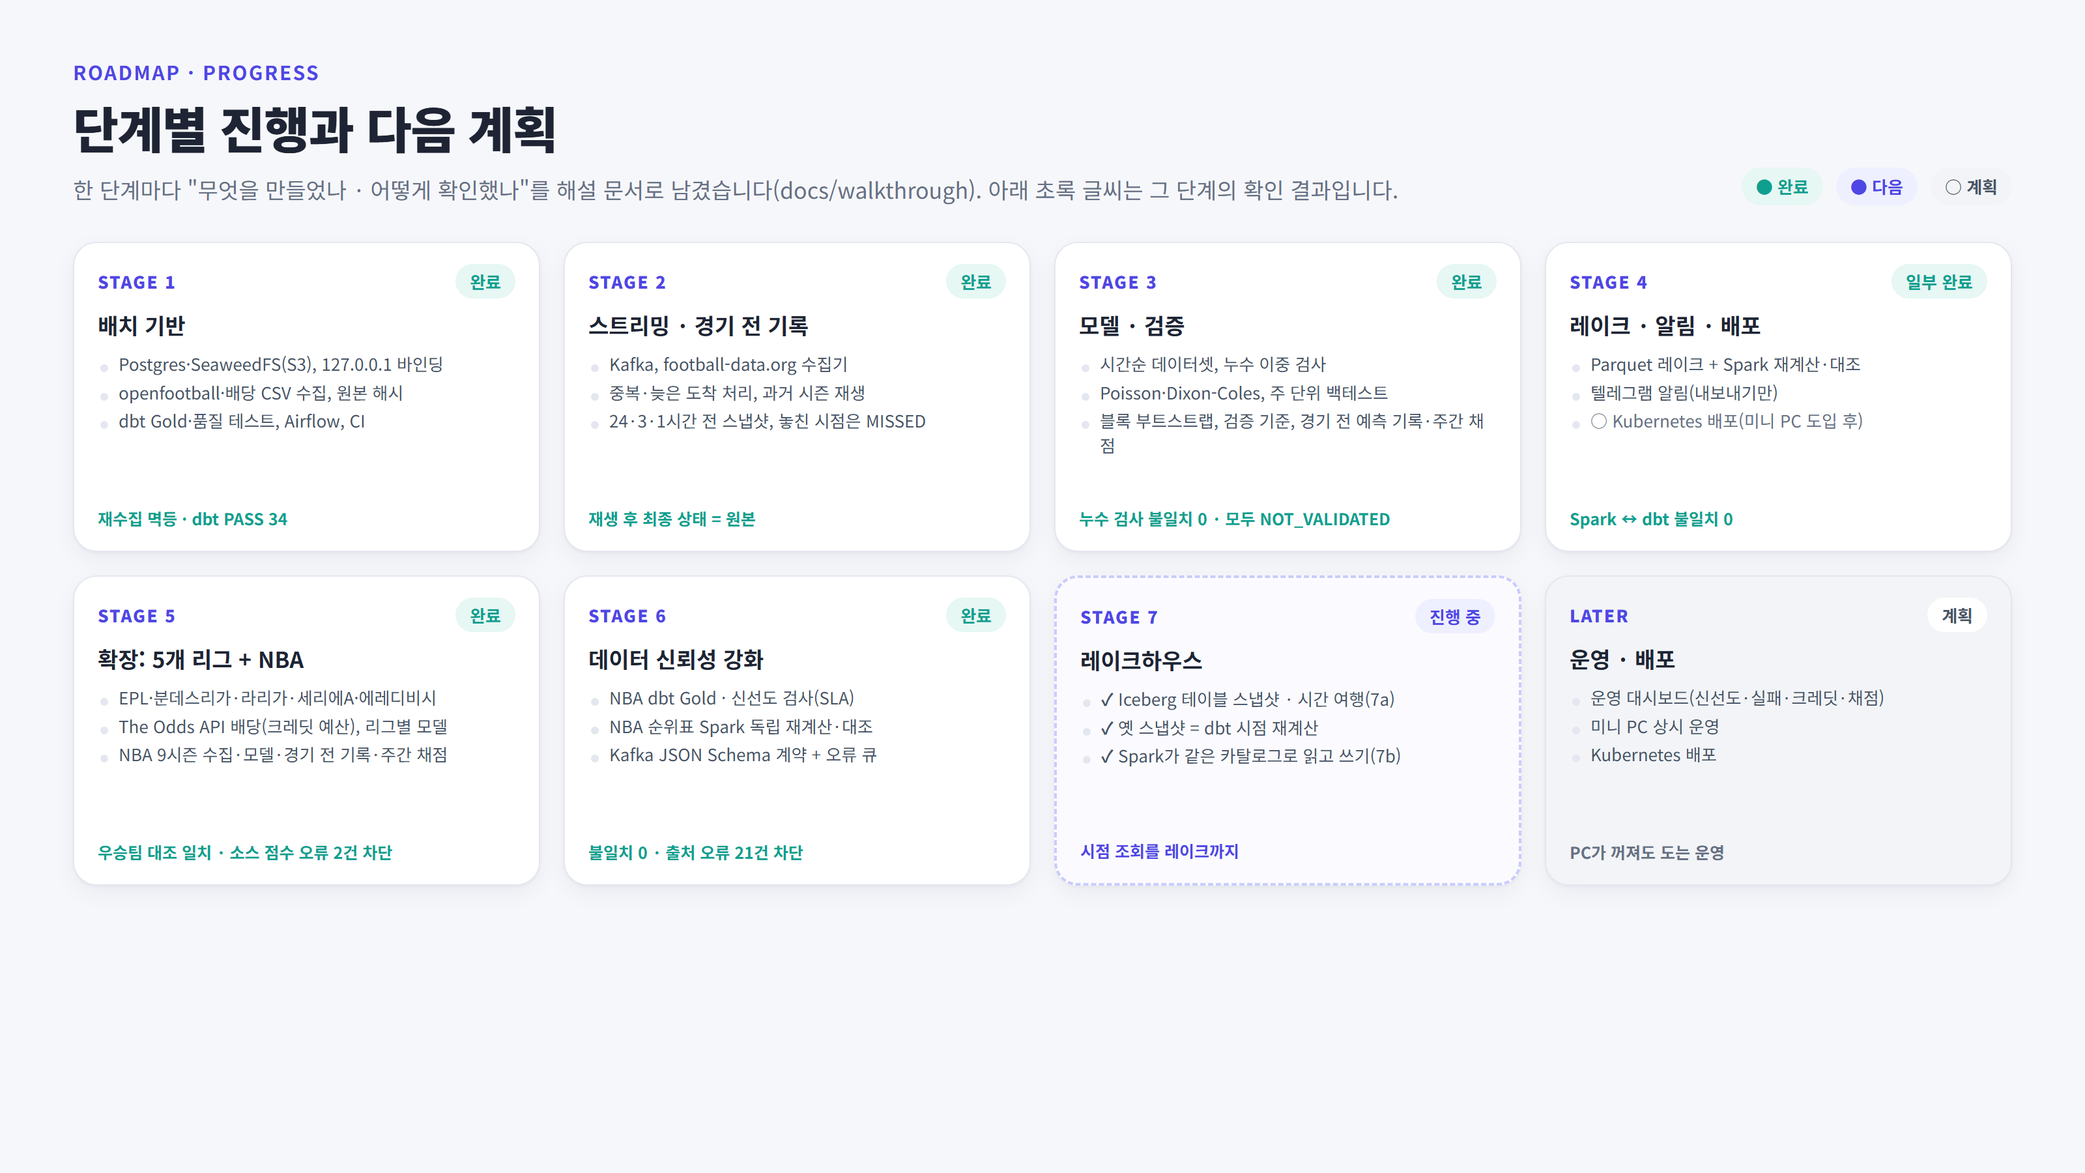
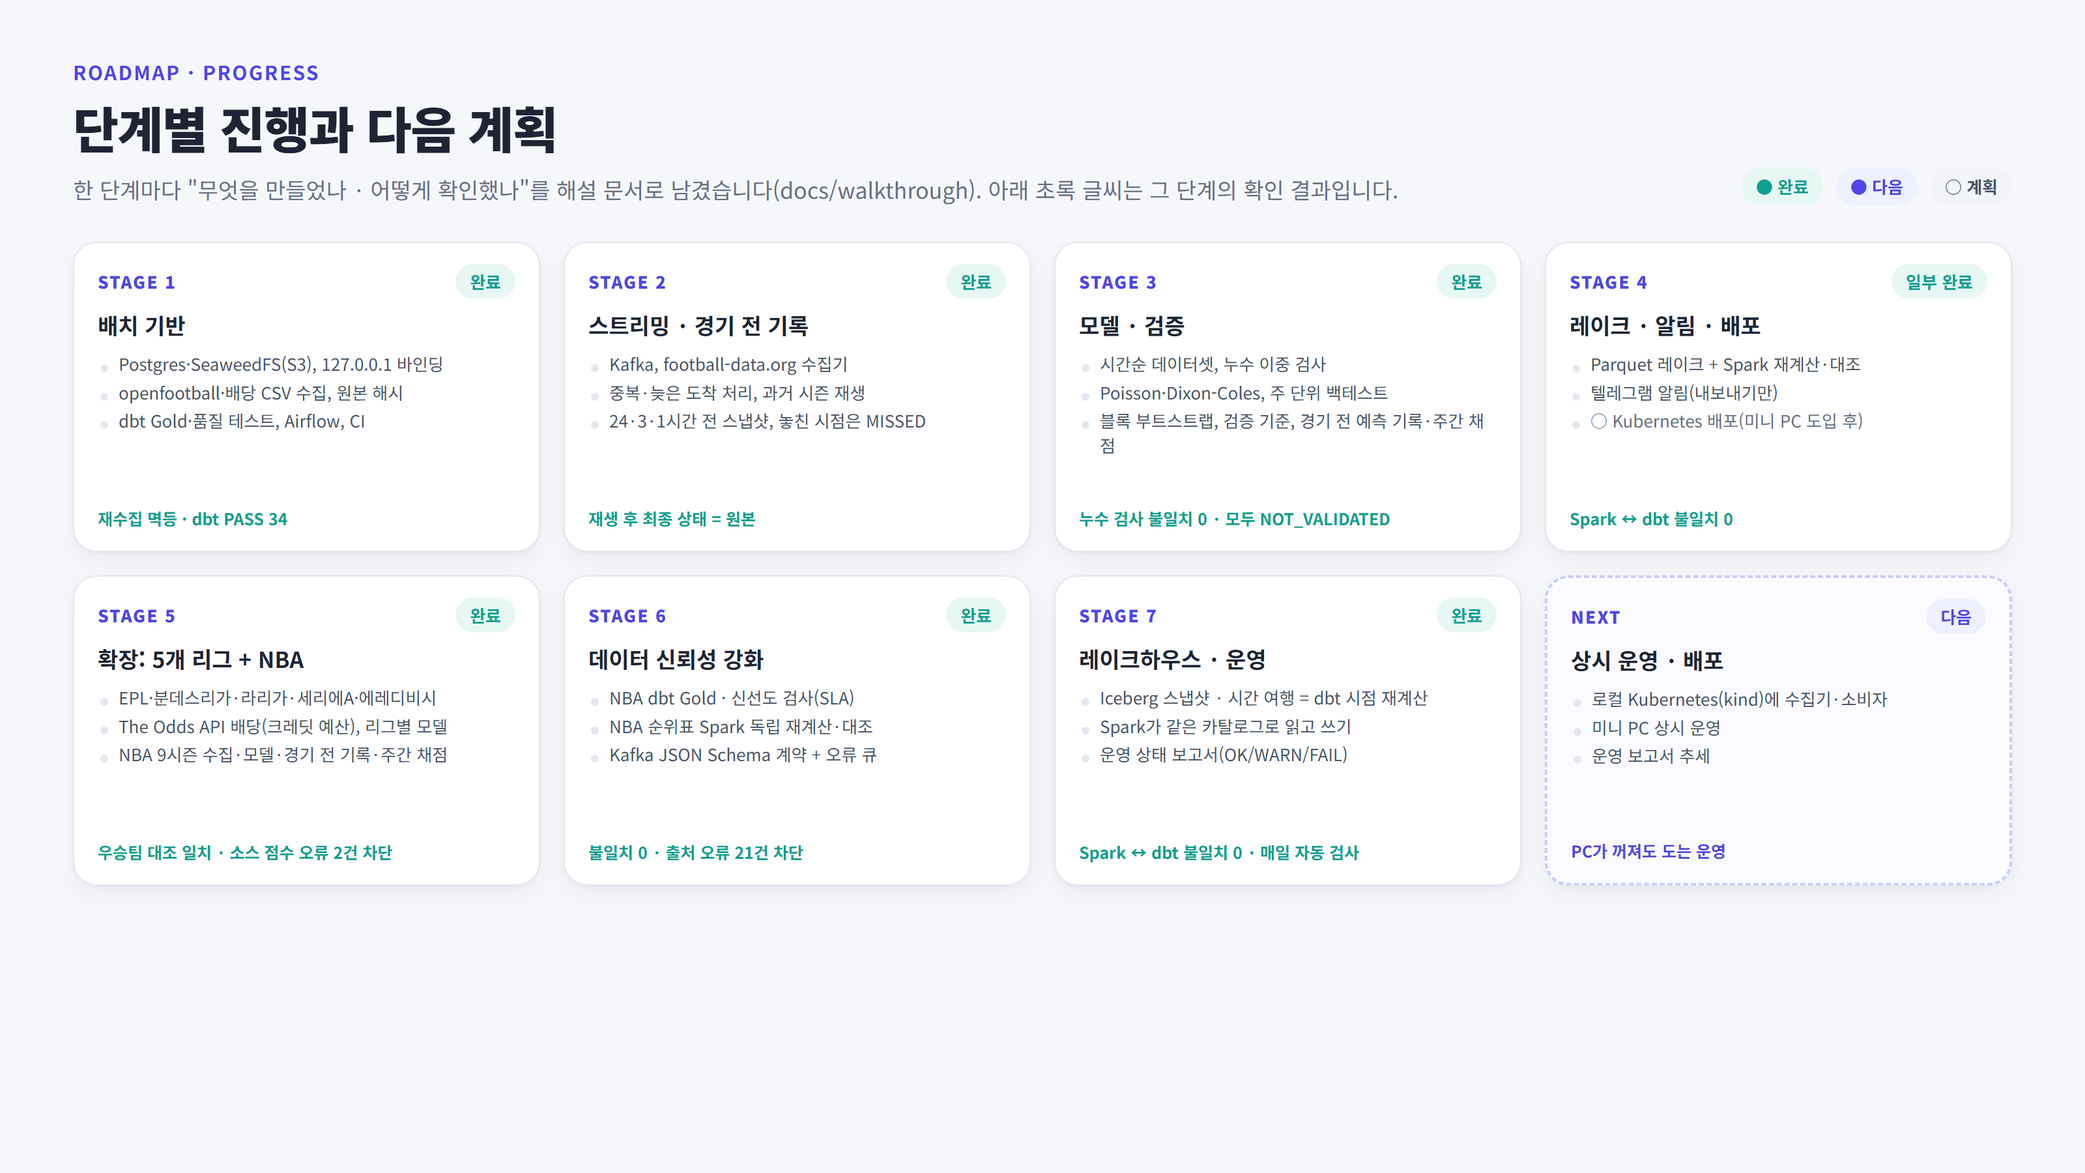
7c 해설, 문서·그림 갱신

diff --git a/docs/diagrams/01_overview.html b/docs/diagrams/01_overview.html
@@ -73,7 +73,7 @@
         <div class="tech-row"><div class="name">Spark · Iceberg<span>레이크 · 대조</span></div><div class="why">Gold를 Iceberg 테이블 스냅샷으로 쌓아 <b>그날의 Gold를 시간 여행</b>으로 읽고, Spark로 <b>독립 재계산해 dbt와 행 단위 대조</b>(불일치 0)</div></div>
         <div class="tech-row"><div class="name">Airflow<span>오케스트레이션</span></div><div class="why">매일 수집·변환, <b>30분마다 경기 전 스냅샷</b>, 주간 채점, 실패 알림. API 크레딧 예산 안에서</div></div>
         <div class="tech-row"><div class="name">numpy<span>모델 · 평가</span></div><div class="why">Poisson·Dixon-Coles·점수 차 등급·Elo, <b>시간순 백테스트 + 블록 부트스트랩</b> 검증 기준</div></div>
-        <div class="tech-row"><div class="name">Docker · CI<span>재현 · 검증</span></div><div class="why">Compose로 전체 스택 재현, GitHub Actions에서 <b>테스트 217개 + Spark + dbt</b></div></div>
+        <div class="tech-row"><div class="name">Docker · CI<span>재현 · 검증</span></div><div class="why">Compose로 전체 스택 재현, GitHub Actions에서 <b>테스트 220개 + Spark + dbt</b></div></div>
       </div>
     </div>
 
@@ -85,7 +85,7 @@
           <div class="num"><b>23,693</b><span>경기(축구 12,264 · NBA 11,429)</span></div>
           <div class="num"><b>17.8만</b><span>배당 버전(해외 북메이커)</span></div>
           <div class="num"><b>60만</b><span>시간순 백테스트 예측</span></div>
-          <div class="num"><b>217</b><span>자동 테스트(CI 포함)</span></div>
+          <div class="num"><b>220</b><span>자동 테스트(CI 포함)</span></div>
         </div>
         <div class="item"><b>정직한 결론</b><span>모델은 단순 비율보다 확실히 낫지만 시장 배당은 못 이김 → 모두 NOT_VALIDATED, 확률 비공개(WITHHELD)</span></div>
         <div class="item"><b>매주 자동으로</b><span>경기 전에 얼린 예측을 같은 시점의 시장 확률과 나란히 채점, 텔레그램으로 요약</span></div>

diff --git a/docs/diagrams/04_roadmap.html b/docs/diagrams/04_roadmap.html
@@ -66,16 +66,16 @@
       <ul><li>NBA dbt Gold · 신선도 검사(SLA)</li><li>NBA 순위표 Spark 독립 재계산·대조</li><li>Kafka JSON Schema 계약 + 오류 큐</li></ul>
       <div class="proof">불일치 0 · 출처 오류 21건 차단</div>
     </div>
-    <div class="card stage next">
-      <div class="top"><span class="no">STAGE 7</span><span class="chip next">진행 중</span></div>
-      <h3>레이크하우스</h3>
-      <ul><li><b>✓</b> Iceberg 테이블 스냅샷 · 시간 여행(7a)</li><li><b>✓</b> 옛 스냅샷 = dbt 시점 재계산</li><li><b>✓</b> Spark가 같은 카탈로그로 읽고 쓰기(7b)</li></ul>
-      <div class="proof">시점 조회를 레이크까지</div>
+    <div class="card stage">
+      <div class="top"><span class="no">STAGE 7</span><span class="chip done">완료</span></div>
+      <h3>레이크하우스 · 운영</h3>
+      <ul><li>Iceberg 스냅샷 · 시간 여행 = dbt 시점 재계산</li><li>Spark가 같은 카탈로그로 읽고 쓰기</li><li>운영 상태 보고서(OK/WARN/FAIL)</li></ul>
+      <div class="proof">Spark ↔ dbt 불일치 0 · 매일 자동 검사</div>
     </div>
-    <div class="card stage plan">
-      <div class="top"><span class="no">LATER</span><span class="chip">계획</span></div>
-      <h3>운영 · 배포</h3>
-      <ul><li>운영 대시보드(신선도·실패·크레딧·채점)</li><li>미니 PC 상시 운영</li><li>Kubernetes 배포</li></ul>
+    <div class="card stage next">
+      <div class="top"><span class="no">NEXT</span><span class="chip next">다음</span></div>
+      <h3>상시 운영 · 배포</h3>
+      <ul><li>로컬 Kubernetes(kind)에 수집기·소비자</li><li>미니 PC 상시 운영</li><li>운영 보고서 추세</li></ul>
       <div class="proof">PC가 꺼져도 도는 운영</div>
     </div>
   </div>

diff --git a/docs/diagrams/02_data_flow.html b/docs/diagrams/02_data_flow.html
@@ -77,13 +77,13 @@
       <div class="label">Serve</div>
       <div class="card box"><h3>경기 전 스냅샷</h3><p>24·3·1시간 전 입력 고정, 놓치면 MISSED, 예측은 WITHHELD로 기록</p></div>
       <div class="card box"><h3>시장 기준 확률</h3><p>스냅샷에 얼린 배당에서 마진을 뺀 확률. 모델을 채점할 때 같은 시점의 비교 기준</p></div>
-      <div class="card box"><h3>채점 · 알림</h3><p>주간 채점(시장 vs 모델), 텔레그램(내보내기만)</p></div>
+      <div class="card box"><h3>채점 · 알림 · 운영 보고서</h3><p>주간 채점(시장 vs 모델), 텔레그램(내보내기만), 매일 운영 상태 한 장(OK/WARN/FAIL)</p></div>
     </div>
   </div>
 
   <div class="bars">
     <div class="card bar"><div class="em">⚙</div><div><b>Airflow DAG 4개</b><span>매일 축구 수집 → dbt → Spark 대조 · 매일 NBA 수집 · 30분마다 배당·스냅샷·알림 · 매주 채점</span></div></div>
-    <div class="card bar"><div class="em">🐳</div><div><b>Docker Compose + GitHub Actions</b><span>모든 포트 127.0.0.1 · 푸시마다 테스트 217개, Spark 컨테이너 테스트, 수집→dbt 종단 실행</span></div></div>
+    <div class="card bar"><div class="em">🐳</div><div><b>Docker Compose + GitHub Actions</b><span>모든 포트 127.0.0.1 · 푸시마다 테스트 220개, Spark 컨테이너 테스트, 수집→dbt 종단 실행</span></div></div>
   </div>
   <div class="rule"><span>모든 시각은 UTC로 저장, 화면은 한국 시각</span><span>키·비밀번호는 .env에만(Git 제외)</span><span>검증 전 모델의 확률은 보여 주지 않음</span></div>
 </body>

diff --git a/docs/walkthrough/7c_ops_status.md b/docs/walkthrough/7c_ops_status.md
@@ -1,0 +1,64 @@
+# 7c. 운영 상태 보고서: 하루 상태를 한 장으로
+
+작성: 2026-10-24. 상태: **완료.** 7단계(레이크하우스·운영)의 마지막 단계입니다.
+
+## 한 줄 요약
+
+수집 신선도, 수집 실행 실패, API 크레딧, 스트림 거부·품질 문제, 경기 전 기록, 주간 채점, 레이크 상태를 **한 장의 HTML(`data/ops/status.html`)과 JSON**으로 만듭니다. 항목마다 OK·WARN·FAIL(판단할 자료가 없으면 UNKNOWN)로 판정하고, 전체 상태는 가장 나쁜 항목입니다. 매일 DAG의 마지막 작업이 앞 작업의 성공 여부와 관계없이 만듭니다. 보는 방식은 세 후보(정적 HTML, Grafana, 텔레그램 요약) 중 **정적 HTML**로 정했습니다. 외부 접속이 필요 없어 127.0.0.1 원칙에 그대로 맞기 때문입니다.
+
+첫 보고서는 **WARN**이었습니다. The Odds API가 HTTP 502를 한 번 돌려준 실행(그 뒤 회복)과, PC가 꺼져 있던 동안 놓친 경기 전 스냅샷 때문입니다. 판정 규칙을 실제 데이터로 보다가 기준 하나를 고쳤습니다. 늦게 온 옛 이벤트(STALE_EVENT 260건)와 규칙대로 걸러 낸 품질 문제는 **정상 동작이라 경고에서 뺐습니다**. 경고가 너무 많으면 진짜 경고를 놓칩니다.
+
+## 판정 규칙
+
+| 항목 | 자료 | OK | WARN | FAIL |
+|---|---|---|---|---|
+| 수집 신선도 | `dbt source freshness`(규칙은 `sources.yml` 한곳) | pass | warn | error |
+| 수집 실행 | `ingest.runs` 소스별 | 최근 24시간 실패 없음 | 실패했다가 그 뒤 성공 | 마지막 실행이 실패 |
+| API 크레딧 | The Odds API 마지막 응답 헤더(실행 통계) | 60 이상 | 60 미만(수집기가 스스로 줄이는 선) | 20 미만 |
+| 스트림·품질 | `silver.stream_rejections`, `silver.quality_issues`(7일) | 없음, 또는 모두 정상 동작 | 오류 큐 사유(`contracts.DLQ_REASONS`)·계약 위반 | — |
+| 경기 전 기록 | 축구·NBA 스냅샷(7일) | 놓침 없음 | 놓친 시점 있음 | — |
+| 주간 채점 | `modeling.prospective_reports` | 8일 안 | 8일 넘게 새 보고서 없음 | — |
+| 레이크 | `exports/latest.json`·매니페스트 | 30시간 안 | 30시간 넘음 | — |
+
+신선도는 보고서가 dbt를 직접 실행해 결과를 `data/ops/freshness.json`에 씁니다. `dbt/target/sources.json`은 테스트 실행도 덮어써서 믿을 수 없었기 때문입니다.
+
+## 바꾼 것
+
+| 변경 | 위치 | 이유 |
+|---|---|---|
+| 보고서 모듈 | `pipelines/ops/status.py`(`collect`, 항목별 `*_check`, `render_html`, `write`) | 읽기만 하는 조회 7개 + 판정 + 한 장짜리 HTML(밝은·어두운 화면 모두, 휴대폰 폭에서도 표가 가로로 넘침 없이 스크롤) |
+| 매일 DAG 마지막 작업 | `dags/openfootball_epl_daily.py`의 `ops_status`(`all_done`, 재시도 0) | 앞 작업이 실패한 날에도 보고서가 그 실패를 보여 줘야 한다 |
+| Airflow 볼륨 | `infra/docker-compose.yml`의 `../data/ops` | 컨테이너가 쓴 파일을 PC에서 바로 연다(Git 제외 폴더) |
+| 오류 큐 사유 목록 이동 | `contracts.DLQ_REASONS` | 소비자와 보고서가 같은 목록을 쓴다. 보고서가 Kafka 클라이언트를 불러오지 않게 |
+
+## 사용한 기술
+
+| 기술 | 어디에 | 어떻게 썼나 |
+|---|---|---|
+| SQL 집계(`DISTINCT ON`, `FILTER`) | `runs_check`, `snapshots_check` | 소스별 마지막 실행, 시점별 찍음·놓침을 한 번에 |
+| dbt source freshness `--output` | `run_freshness` | 신선도 규칙을 다시 쓰지 않고 dbt 판정을 그대로, 결과 파일 경로만 따로 |
+| 정적 HTML(인라인 CSS, `prefers-color-scheme`) | `render_html` | 서버 없이 파일 하나. 출처에서 온 문자열(오류 메시지 등)은 모두 이스케이프 |
+| Airflow `trigger_rule="all_done"` | `ops_status` | 실패한 날도 보고서 |
+
+## 확인 결과(2026-10-24)
+
+| 확인 | 결과 |
+|---|---|
+| 실제 데이터(PC) | 전체 WARN: 수집 실행 WARN(The Odds API 24시간 실패 1건, HTTP 502, 그 뒤 성공), 경기 전 기록 WARN(7일 찍음 60·놓침 179), 신선도·크레딧(471)·주간 채점·레이크 OK |
+| Airflow 컨테이너 | 같은 보고서를 `/opt/project/data/ops`에 씀 → PC `data/ops/status.html`로 열림. DAG 작업 목록에 `ops_status`, 불러오기 오류 없음 |
+| 테스트(`tests/test_ops_status.py`) | 전체 = 가장 나쁜 항목, 신선도 pass/error 판정, 검사 못 하면 UNKNOWN / 출처 문자열의 `<script>` 이스케이프 / 임시 DB에서 "마지막 실패 → FAIL, 실패 후 회복 → WARN, 크레딧 45 → WARN, 늦은 옛 이벤트만 있으면 OK, 계약 위반이 생기면 WARN" |
+| 전체 테스트 | 217개 통과, 1개 건너뜀(Spark 전용 파일) |
+
+## 면접에서 나올 만한 질문
+
+**Q. Grafana 같은 대시보드 도구를 쓰지 않은 이유는?**
+보고 싶은 것은 하루 한 번 바뀌는 운영 상태이고, 보는 사람은 저 한 명입니다. 서버형 대시보드는 컨테이너·데이터 소스 설정·접속 경로가 늘고, 집 밖에서 보려면 127.0.0.1 원칙을 바꿔야 합니다. 파일 한 장은 백업·비교가 쉽고 JSON도 함께 남아 나중에 대시보드로 옮기기 쉽습니다.
+
+**Q. 경고 기준은 어떻게 정했나요?**
+코드에 이미 있는 선을 다시 썼습니다. 크레딧 60은 수집기가 스스로 줄이는 선, 신선도는 dbt 규칙 그대로입니다. 실제 데이터로 보니 정상 동작(늦은 옛 이벤트 260건)까지 경고하고 있어서 뺐습니다. "확인할 일이 있을 때만 노란색"이어야 보고서를 믿고 봅니다.
+
+## 한계
+
+- **Airflow 작업 상태(dbt 실패, Spark 대조 실패 등)는 보고서에 없습니다.** 그 실패는 이미 텔레그램으로 알리고, 보고서는 우리 DB·저장소만 읽습니다(Airflow 메타데이터 DB를 직접 읽지 않음).
+- **하루 한 번 만듭니다.** 그 사이 상태는 직접 실행(`python -m pipelines.ops.status`)으로 봅니다.
+- **집 밖에서는 볼 수 없습니다.** 파일이 PC에 있습니다(127.0.0.1 원칙).

diff --git a/docs/interview/error_handling.md b/docs/interview/error_handling.md
@@ -170,6 +170,7 @@
 | 엔진 간 대조(4a) | Spark 결과를 같은 스냅샷의 dbt 결과와 행·열 단위로 대조(pyarrow, Spark 밖에서). 불일치가 하나라도 있으면 종료 코드 1 → 매일 DAG의 `spark_reconcile` 작업 실패(재시도는 S3 일시 오류용 1번만). Spark가 아예 못 뜨면 stderr 끝부분을 오류에 담음. Spark 테스트는 `REQUIRE_SPARK=1`이면 건너뛰지 않고 실패 |
 | Iceberg(7a) | 같은 내보내기 ID가 이미 있는 테이블은 쓰지 않음(멱등). 빈 테이블에는 append, 그 뒤는 전체 overwrite(지울 것이 없는 덮어쓰기 경고를 없앰). 시간 여행 대상이 없으면 `LookupError`(빈 결과로 조용히 넘어가지 않음). 매일 모든 스냅샷을 내보내기 파일과 행 단위로 대조, 다르면 종료 코드 1 → 작업 실패. 카탈로그 포인터 교체는 DB 트랜잭션이라 동시 커밋은 하나만 성공 |
 | Spark ↔ Iceberg(7b) | 입력은 그 내보내기를 쓴 스냅샷만(없으면 `LookupError`, 최신 스냅샷으로 대신하지 않음). 결과가 이미 있으면 계산하지 않음. 대조는 그 내보내기의 Spark 결과가 없으면 빈 목록 → 실패. jar는 SHA-512가 다르면 이미지 빌드 실패 |
+| 운영 상태 보고서(7c) | 항목 하나를 읽지 못해도(예: 레이크 매니페스트 없음) 그 항목만 UNKNOWN으로 두고 보고서는 만든다. 신선도 검사를 못 하면 OK가 아니라 UNKNOWN. 출처에서 온 문자열은 HTML 이스케이프. 매일 DAG에서 앞 작업이 실패해도 실행(`all_done`) |
 | 선택 낙관 제거(3f) | 보정 계수는 검증 시즌을 서로 바꿔 채점(교차 보정). 검증 시즌이 하나면 같은 자료로 고르고 채점하는 대신 오류 |
 | 과신 방지(3c) | 차이의 구간은 주 단위 블록 부트스트랩으로(경기 단위로 뽑으면 구간이 좁아져 과신), 비율 구간은 Wilson(작은 표본에서도 0~1 안) |
 

diff --git a/docs/de_platform_roadmap.md b/docs/de_platform_roadmap.md
@@ -75,7 +75,7 @@ Airflow가 전체 작업 순서와 재시도를 관리합니다.
 | 6c. Kafka 스키마 계약 ✅ | 이벤트 형식을 JSON Schema로(겉봉투 엄격, 내용은 추가만 허용, event_id 재계산), 생산자·소비자 양쪽 검사, 위반·대조표 밖 팀은 오류 큐(dead letter)로, 오류 큐 요약·다시 보내기 도구 | 깨진 메시지가 Silver에 들어가지 않음, 실제 원본에서 출처 오류 21건 발견 | 없음 |
 | 7a. Iceberg 레이크하우스 ✅ | 내보내기마다 Iceberg 테이블 5개(`gold.*`)에 스냅샷 하나(PyIceberg, Postgres SQL 카탈로그, 시즌 파티션), 내보내기 ID·시각으로 시간 여행, 매일 DAG에서 모든 스냅샷을 내보내기와 대조 | 옛 스냅샷 = dbt를 그 시점으로 다시 계산한 Gold, 실제 5개 테이블 불일치 0 | 없음 |
 | 7b. Spark가 Iceberg를 직접 읽기 ✅ | Spark에 Iceberg 런타임·S3FileIO·JDBC 카탈로그(jar 3개, 판·SHA-512 고정), 입력은 내보내기 스냅샷으로 시간 여행(`VERSION AS OF`), 결과는 `spark.*` Iceberg 테이블, 대조도 Iceberg에서 | 12,264 × 18열, 270 × 9열 불일치 0, 다시 실행하면 계산 건너뜀 | jar 내려받기 승인(완료) |
-| 7c. 운영 상태 보기 | 수집 신선도·작업 실패·API 크레딧·오류 큐·주간 채점을 한곳에 | 하루 상태를 한 화면에서 확인 | 보는 방식 결정(아래 계획) |
+| 7c. 운영 상태 보고서 ✅ | 신선도(dbt 판정)·수집 실행·API 크레딧·스트림 거부·경기 전 기록·주간 채점·레이크를 OK/WARN/FAIL로, 정적 HTML·JSON(`data/ops/`), 매일 DAG 마지막 작업(앞 작업이 실패해도) | 실제 데이터로 WARN 2개(API 502 1회, 놓친 스냅샷), 정상 동작은 경고에서 뺌 | 없음 |
 
 3단계 검증을 통과하기 전에는 확률을 표시하지 않습니다(WITHHELD).
 

diff --git a/docs/walkthrough/README.md b/docs/walkthrough/README.md
@@ -31,5 +31,6 @@
 | 6c | [Kafka 계약과 오류 큐](6c_kafka_contracts.md) | JSON Schema 계약과 호환 규칙, 생산자·소비자 양쪽 검사, 오류 큐 순서 보장, 실제 원본에서 찾은 출처 오류 21건 |
 | 7a | [Iceberg 레이크하우스](7a_iceberg_lakehouse.md) | 파일 묶음과 테이블 형식의 차이, SQL 카탈로그, 내보내기 ID 스냅샷과 시간 여행, 두 시간 여행(Postgres·Iceberg)이 같은 답인지 |
 | 7b | [Spark ↔ Iceberg](7b_spark_iceberg.md) | 한 카탈로그를 두 엔진(PyIceberg·Spark)이 함께 쓰기, JDBC 카탈로그와 S3FileIO, `VERSION AS OF` 시간 여행, 외부 jar 공급망 확인 |
+| 7c | [운영 상태 보고서](7c_ops_status.md) | 무엇을 보고 언제 경고하나, dbt 판정 재사용, 정상 동작을 경고에서 빼는 이유, 실패한 날에도 만드는 보고서 |
 
 전체 구조는 [코드 가이드](../code_guide.md), 계획과 진행 상태는 [로드맵](../de_platform_roadmap.md), 주제별(예외 처리·메달리온·기술 스택) 정리는 [면접 준비 문서](../interview/README.md)를 함께 보세요.

diff --git a/docs/portfolio.md b/docs/portfolio.md
@@ -57,10 +57,10 @@
 | 경기 | 23,693(축구 12,264 · NBA 11,429) |
 | 배당 버전 | 약 17.8만(해외 북메이커) |
 | 시간순 백테스트 예측 | 약 60만(실행 589개) |
-| 자동 테스트 | 217개(GitHub Actions: 전체 테스트 + Spark 컨테이너 + 수집→dbt 종단) |
+| 자동 테스트 | 220개(GitHub Actions: 전체 테스트 + Spark 컨테이너 + 수집→dbt 종단) |
 | 스키마 마이그레이션 | 17개 |
 | Airflow DAG | 4개(매일 수집·변환·대조, 30분마다 경기 전 기록, 매주 채점) |
-| 해설 문서 | 단계별 27편, 실제로 겪은 문제 기록 33건 |
+| 해설 문서 | 단계별 28편, 실제로 겪은 문제 기록 33건 |
 
 ## 4. 정직한 결론
 
@@ -105,8 +105,8 @@
 
 ![로드맵](images/04_roadmap.png)
 
-1. 운영 상태 보기(신선도·실패·크레딧·채점·오류 큐)(7c)
-2. 미니 PC 상시 운영, Kubernetes 배포
+1. 상시 운영 환경: 로컬 Kubernetes(kind)에 수집기·소비자 배포, 그다음 미니 PC
+2. 운영 상태 보고서의 추세(날짜별 JSON 비교)
 
 ## 링크
 
